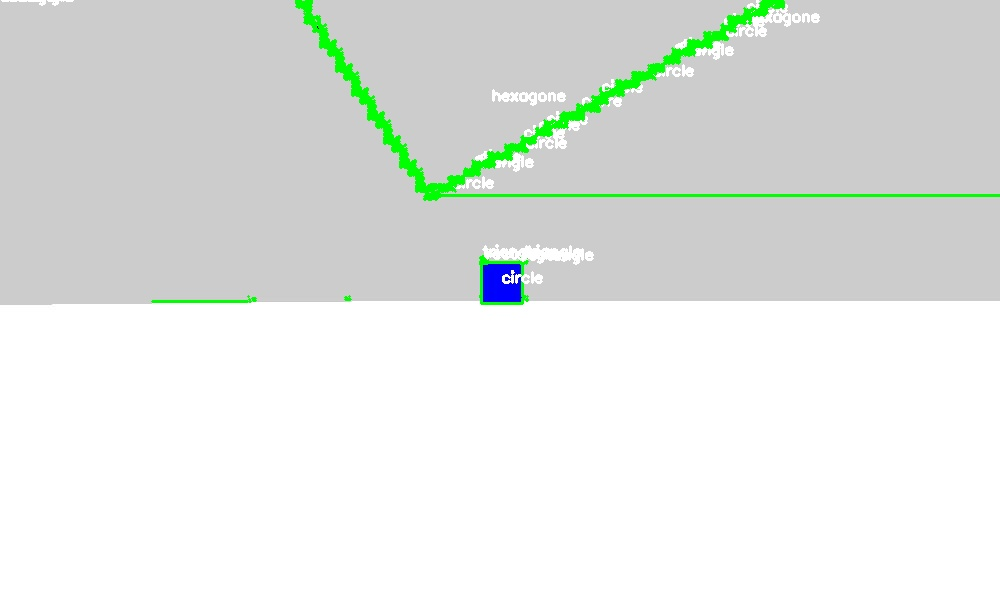
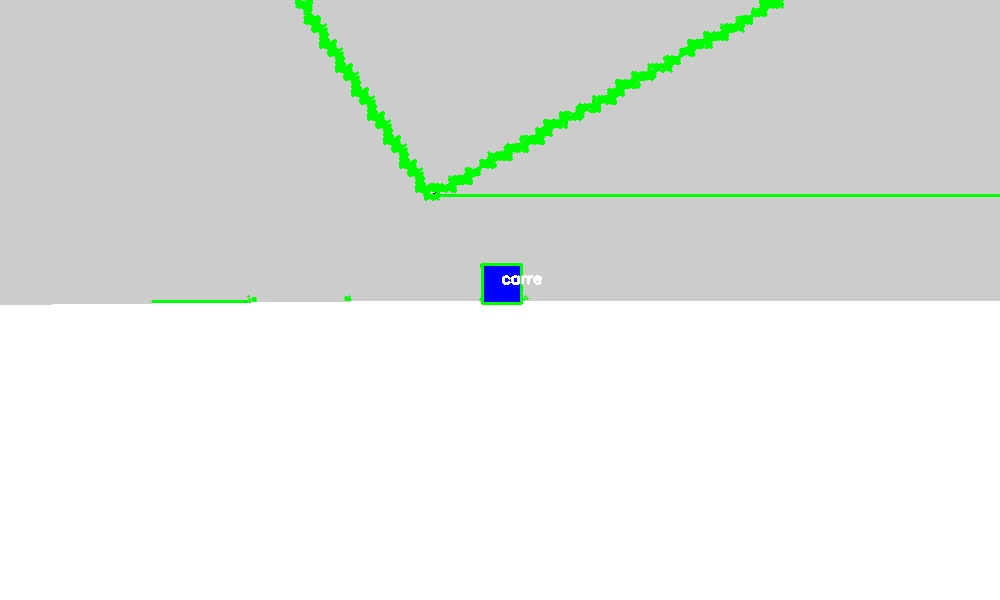
d

Changed region(s): [[0.434, 0.0, 0.806, 0.33], [0.465, 0.39, 0.589, 0.51], [0.031, 0.0, 0.062, 0.03]]

diff --git a/controleur/controleur_detection_carre.py b/controleur/controleur_detection_carre.py
@@ -54,10 +54,12 @@ class Controleur_detection_carre():
             gray = cv.cvtColor(image, cv.COLOR_BGR2GRAY)
             ret,thresh = cv.threshold(gray,200,255,cv.THRESH_BINARY_INV)
             contours,h = cv.findContours(thresh,cv.RETR_EXTERNAL,cv.CHAIN_APPROX_SIMPLE)
+            shape = None
 
             for cnt in contours:
                 perimetre = cv.arcLength(cnt,True)
                 approx = cv.approxPolyDP(cnt,0.01*perimetre,True)
+                print(perimetre)
                 
                 M = cv.moments(cnt)
 
@@ -67,8 +69,21 @@ class Controleur_detection_carre():
                 else:
                     cX = int(M["m10"] / M["m00"])
                     cY = int(M["m01"] / M["m00"])
+
                 cv.drawContours(image,[cnt],-1,(0,255,0),2)
 
+                if len(approx)==4 and perimetre > 20:
+                    (x, y, w, h) = cv.boundingRect(approx)
+                    ratio = w / float(h)
+                    if ratio >= 0.95 and ratio <= 1.05:
+                        shape = "carre"
+                    else:
+                        shape = "rectangle"
+
+                    cv.putText(image, shape, (cX, cY), cv.FONT_HERSHEY_SIMPLEX,0.5, (255, 255, 255), 2)
+
+
+                """
                 if len(approx)==3:
                     shape = "triangle"
                 elif len(approx)==4:
@@ -84,8 +99,7 @@ class Controleur_detection_carre():
                     shape = "hexagone"
                 else:
                     shape= "circle"
-
-                cv.putText(image, shape, (cX, cY), cv.FONT_HERSHEY_SIMPLEX,0.5, (255, 255, 255), 2)
+                """
 
                 """
                 cv.imshow('image.jpeg', image)
